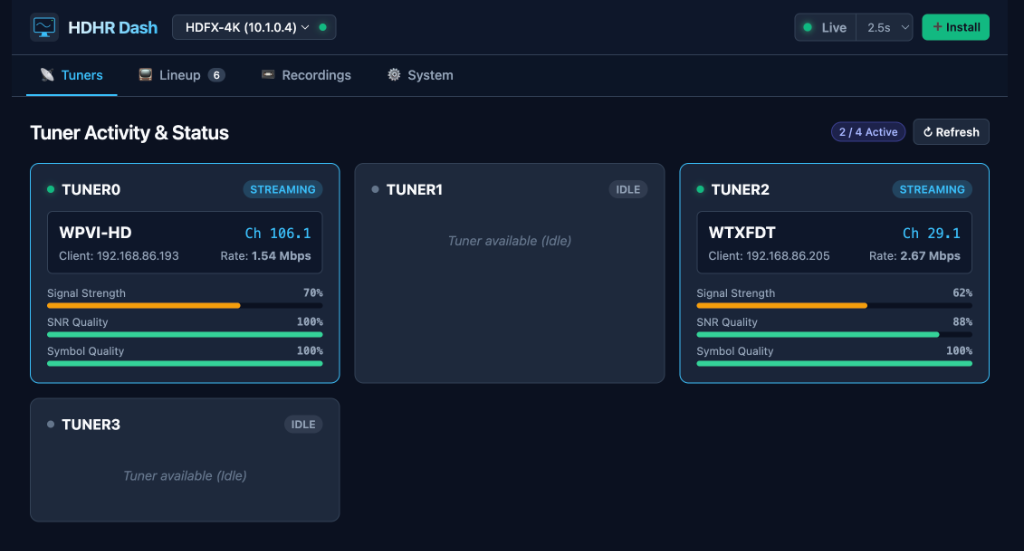
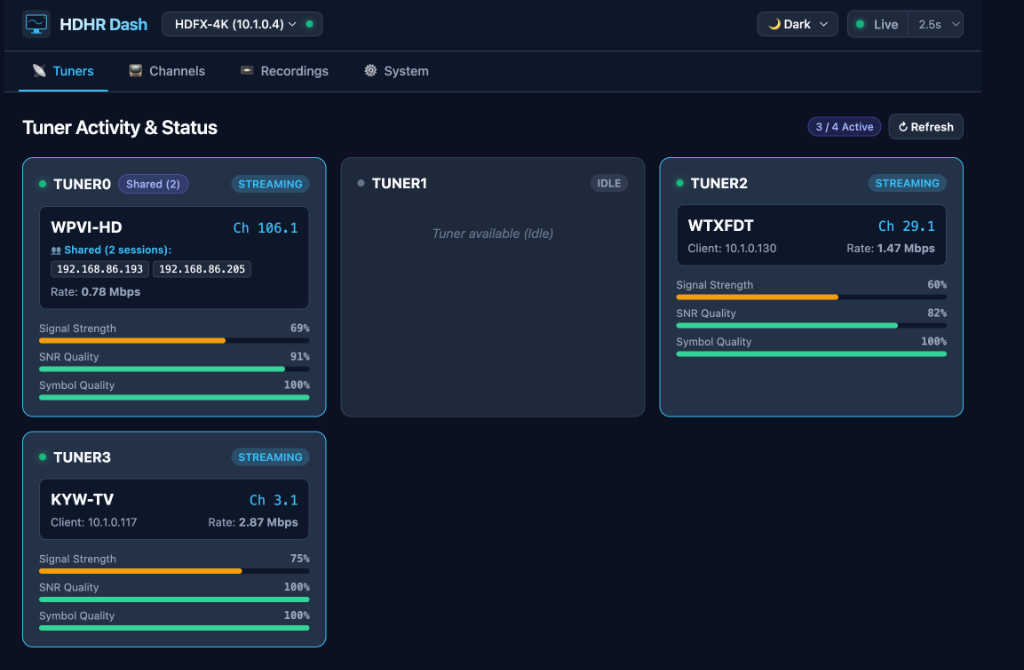
Update screenshots and README with current features

diff --git a/README.md b/README.md
@@ -13,28 +13,28 @@ A modern, fast, and responsive **Progressive Web App (PWA)** to monitor and inte
 ## Screenshots
 
 ### 📡 Tuner Activity & Status
-Monitor physical tuners in real time with live polling, client IP resolution, network bitrate, and signal metrics (Signal Strength, SNR Quality, Symbol Quality).
+Monitor physical tuners in real time with live polling, client IP resolution, network bitrate, signal gauges (Signal Strength, SNR Quality, Symbol Quality), and tuner sharing detection when multiple clients or DVR recordings share a tuner.
 
 ![Tuner Activity & Status](screenshots/tuners.png)
 
 ---
 
-### 📺 Channel Lineup
-Browse your entire channel lineup with ATSC 1.0 vs ATSC 3.0 detection, A3SA DRM badges, and color-coded signal quality bars with tooltips.
+### 📺 Channels
+Browse your entire channel lineup with ATSC 1.0 vs ATSC 3.0 detection, A3SA DRM badges, color-coded signal quality meters, quick filters, one-click stream URL copying, M3U launchers, and full playlist export.
 
-![Channel Lineup](screenshots/lineup.png)
+![Channels](screenshots/channels.png)
 
 ---
 
 ### 📼 DVR & Recordings
-View your connected storage (e.g., USB SSD) usage, browse recorded series and episodes with broadcast artwork and station logos, and check scheduled recording rules.
+View connected storage (e.g., USB SSD) usage, browse recorded series and episodes with broadcast poster artwork and station logos, inspect scheduled recording rules, and download full `.mpg` video files directly.
 
 ![DVR & Recordings](screenshots/recordings.png)
 
 ---
 
 ### ⚙ System & Device Management
-View device hardware details, switch between multiple tuners, and run cloud auto-discovery.
+View device hardware details, check firmware update status against SiliconDust releases, switch between multiple tuners, and customize the interface with 5 color themes.
 
 ![System & Settings](screenshots/system.png)
 
@@ -44,32 +44,45 @@ View device hardware details, switch between multiple tuners, and run cloud auto
 
 * **📡 Real-Time Tuner Monitoring:**
   * Displays physical tuners (`tuner0` – `tuner3`) with live polling (`1s`, `2.5s`, `5s`, or paused).
+  * **Tuner Sharing Detection:** Automatically detects when multiple clients or DVR recording sessions share a single tuner on the same channel, displaying a `Shared (N)` badge and individual client tags (e.g. `192.168.86.193`, `📼 DVR`).
   * Automatically resolves internal `[::1]` streaming proxies to the actual streaming client's LAN IP.
-  * Live stream bitrate indicator (e.g. `1.54 Mbps`).
-  * Signal strength, SNR quality, and symbol quality gauges.
+  * Live stream bitrate indicator (e.g. `2.87 Mbps`) or broadcast frequency.
+  * Signal strength, SNR quality, and symbol quality gauges with color grading (🟢 Good, 🟡 Fair, 🔴 Poor).
   * Smart polling lifecycle that automatically pauses when the browser tab is hidden to conserve network and battery.
 
-* **📺 Channel Lineup & Streaming:**
+* **📺 Channels & Streaming:**
   * Full channel discovery via `?show=found`, displaying all scanned channels (including hidden ones).
-  * **ATSC3 vs ATSC1:** Clear badges identifying NextGen TV (HEVC / AC-4) vs standard digital channels.
+  * **ATSC 3.0 vs ATSC 1.0:** Clear badges identifying NextGen TV (HEVC / AC-4) vs standard digital channels.
   * **A3SA DRM Badges:** Highlights encrypted ATSC 3.0 channels with `🔒 DRM` indicators.
-  * **Signal Quality Meters:** Color-coded signal bars (🟢 Green $\ge 80\%$, 🟡 Yellow $\ge 60\%$, 🔴 Red $< 60\%$) with detailed hover tooltips (`Quality: 100% | Strength: 74%`).
+  * **Signal Quality Meters:** Color-coded signal bars (🟢 Green $\ge 80\%$, 🟡 Yellow $\ge 60\%$, 🔴 Red $< 60\%$) with detailed hover tooltips (`Quality: 100% | Strength: 75%`).
   * **Quick Filters:** Filter by *Allowed*, *All*, *Favorites ⭐*, *ATSC3*, *DRM 🔒*, *HD Only*, and *Hidden ❌*.
-  * **Direct Streaming & M3U Export:** One-click stream launch, clipboard URL copy, and complete `#EXTM3U` playlist download.
+  * **Direct Streaming & M3U Export:** One-click clipboard URL copy (`📋 Copy URL`), M3U playlist launcher (`📺 M3U`) for external video players (VLC, IINA, etc.), and complete `#EXTM3U` playlist download for external IPTV players, Plex, Channels DVR, or Kodi.
 
 * **📼 DVR & Storage Engine:**
   * Automatically detects attached storage (e.g., USB SSD on HDHomeRun FLEX 4K or network recording engines).
-  * Visual storage space bar (`Free GB` vs `Total GB`).
-  * **Series & Episodes Views:** Browse grouped series cards or drill down into individual episodes with season/episode numbers, original airdates, station logos, synopses, and direct `▶ Play` links.
+  * Visual storage space bar (`Free GB` vs `Total GB` and % used).
+  * **Series & Episodes Views:** Browse grouped series cards or drill down into individual episodes with season/episode numbers, original airdates, broadcast poster artwork, synopses, and station details.
+  * **Direct Video Downloads:** Direct `⬇ Download (.mpg)` button for every recorded file to save full raw video files directly to your device.
   * **Scheduled Rules:** Integrates with SiliconDust's Cloud DVR API (`api.hdhomerun.com/api/recording_rules`) using `DeviceAuth` to show active series recording rules with priority, team/channel filters, and padding.
 
-* **⚙ Multi-Device & Discovery:**
-  * Auto-discovers HDHomeRun devices on your LAN using SiliconDust's Cloud Discovery API (`api.hdhomerun.com/discover`).
-  * Supports manual IP entry and instant device switching.
-  * Displays model number, Device ID, firmware version, tuner count, and storage URL.
+* **🎨 Theme Customization:**
+  * 5 selectable color themes:
+    * **Dark** (Default slate & sky blue)
+    * **Light** (Clean modern daylight palette)
+    * **OLED Black** (True pitch-black background with vibrant accents)
+    * **Teal** (HDHomeRun classic brand aesthetic)
+    * **Nord Frost** (Arctic blue & cool gray palette)
+  * Theme preference persists automatically across sessions.
+
+* **⚙ Multi-Device & Firmware Management:**
+  * Displays model number, Device ID, firmware version, tuner count, IP address, and storage URL.
+  * **Firmware Update Check:** Natively checks for firmware updates, showing `✓ Up to date` or `Update Available` with direct links to the device web admin and SiliconDust firmware changelog.
+  * Multi-device support: Save multiple HDHomeRun units and switch between them instantly.
+  * Clean, stacked vertical cards preventing text and URL overflow on all screen sizes.
 
 * **📱 Progressive Web App (PWA):**
   * Fully installable on macOS, Windows, iOS, and Android.
+  * Complete icon and favicon suite (`favicon.ico`, `apple-touch-icon.png`, `icon-192.png`, `icon-512.png`).
   * Zero external framework dependencies — pure Vanilla JavaScript, CSS3, and HTML5.
   * Works offline with service worker caching for the app shell.
 
@@ -77,7 +90,7 @@ View device hardware details, switch between multiple tuners, and run cloud auto
 
 ## How It Works (LAN Access from HTTPS)
 
-Modern browsers typically restrict HTTPS public websites (like GitHub Pages) from making requests to private LAN IP addresses (`10.x.x.x` or `192.168.x.x`). 
+Modern browsers restrict HTTPS public websites (like GitHub Pages) from making requests to private LAN IP addresses (`10.x.x.x` or `192.168.x.x`). 
 
 HDHR Dash works seamlessly thanks to:
 1. **Built-in CORS Support:** SiliconDust HDHomeRun firmware serves `Access-Control-Allow-Origin: *` on its JSON endpoints.
